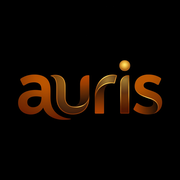
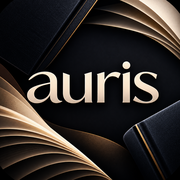
major update auris v5

diff --git a/src/App.jsx b/src/App.jsx
@@ -13,25 +13,28 @@ export default function App() {
   const [edit, setEdit] = useState(null);
   const [setup, setSetup] = useState(!device());
   const [order, setOrder] = useState(null);
-  const [ask, setAsk] = useState(null);
   const [msg, setMsg] = useState('');
   const [naming, setNaming] = useState(null);
   const [inst, setInst] = useState(null);
   useEffect(() => { const h = (e) => { e.preventDefault(); setInst(e); }; addEventListener('beforeinstallprompt', h); return () => removeEventListener('beforeinstallprompt', h); }, []);
 
-  const refresh = async () => setBooks((await getAll()).sort((a, b) => (b.updatedAt || b.addedAt) - (a.updatedAt || a.addedAt)));
+  const refresh = async () => setBooks((await getAll()).sort((a, b) => (b.updatedAt || 0) - (a.updatedAt || 0) || b.addedAt - a.addedAt));
   const flush = async () => {
     for (const b of await getAll()) if (b.dirty) push(toItem(b)).then(async () => putBook({ ...(await getBook(b.id)), dirty: false })).catch(() => {});
   };
   // Titles, authors and covers follow the book to every device; the newest edit wins.
   const syncMeta = async () => {
     try {
-      const { meta } = await pullAll();
+      const { meta, items } = await pullAll();
       let changed = false;
       for (const b of await getAll()) {
         const m = meta[b.id], t = b.metaAt || b.addedAt || 0;
         if (m && m.metaAt > t) { await putBook({ ...b, title: m.title, author: m.author, coverUrl: m.coverUrl, metaAt: m.metaAt }); changed = true; }
         else if (t > (m?.metaAt || 0)) pushMeta({ ...b, metaAt: t }).catch(() => {});
+      }
+      for (const b of await getAll()) {
+        const r = items[b.id];
+        if (r && r.device !== device() && r.updatedAt > (b.updatedAt || 0)) { await putBook({ ...b, part: r.part || 0, position: r.position, finished: r.finished, updatedAt: r.updatedAt }); changed = true; }
       }
       if (changed) refresh();
     } catch {}
@@ -50,19 +53,14 @@ export default function App() {
     await putBook(nb);
     try { await push(toItem(nb), keepalive); await putBook({ ...nb, dirty: false }); } catch {}
   }
-  // Opening a book last played on another device asks whether to jump to that point.
+  // Opening a book last played on another device jumps there automatically (the player starts 10 seconds earlier).
   async function start(b, files) {
     const remote = (await pull().catch(() => ({})))[b.id];
-    if (remote && remote.device !== device() && remote.updatedAt > (b.updatedAt || 0) && remote.updatedAt > (b.seenRemote || 0)) return setAsk({ b, files, remote });
+    if (remote && remote.device !== device() && remote.updatedAt > (b.updatedAt || 0)) {
+      b = { ...b, part: remote.part || 0, position: remote.position, finished: remote.finished, updatedAt: remote.updatedAt };
+      await putBook(b);
+    }
     setCur({ book: b, files });
-  }
-  async function answer(yes) {
-    const { b, files, remote } = ask;
-    setAsk(null);
-    let nb = { ...b, seenRemote: remote.updatedAt };
-    if (yes) nb = { ...nb, part: remote.part || 0, position: remote.position, finished: remote.finished, updatedAt: remote.updatedAt };
-    await putBook(nb);
-    setCur({ book: nb, files });
   }
   async function resolve(b, items) {
     const fps = await Promise.all(items.map((i) => fingerprint(i.file)));
@@ -149,7 +147,7 @@ export default function App() {
         <Player key={cur.book.id} {...cur} onSave={(p, k) => saveProgress(cur.book.id, p, k)} onEdit={() => setEdit(cur.book)} onBack={() => { setCur(null); refresh(); }} />
       ) : (
         <main className="lib">
-          <header><h1><img className="logo" src="/logo.png" alt="AURIS" /></h1><div>{inst && <button className="ghost" onClick={() => { inst.prompt(); setInst(null); }}>Install</button>}<button className="ghost" onClick={() => setSetup(true)}>{device() || 'Device'}</button><button className="primary" onClick={add}>Add audiobook</button></div></header>
+          <header><h1><img className="logo" src="/icon-192.png" alt="AURIS" /></h1><div>{inst && <button className="ghost" onClick={() => { inst.prompt(); setInst(null); }}>Install</button>}<button className="ghost" onClick={() => setSetup(true)}>{device() || 'Device'}</button><button className="primary" onClick={add}>Add audiobook</button></div></header>
           {msg && <p className="note" onClick={() => setMsg('')}>{msg}</p>}
           {!books.length && <p className="empty">Your shelf is empty. Add an audiobook from this device. Select several files to add a book with multiple parts. Files play from where they are stored and are never uploaded.</p>}
           {books.map((b) => <Row key={b.id} b={b} onOpen={() => open(b)} onEdit={() => setEdit(b)} />)}
@@ -157,13 +155,6 @@ export default function App() {
       )}
       {naming && <Naming n={naming} onCancel={() => setNaming(null)} onDone={async (t) => { const n = naming; setNaming(null); try { await begin(await createBook(n.items, n.fps, n.id, n.m, t), n.items); } catch { setMsg('Could not add that audiobook.'); } }} />}
       {order && <Order items={order} onCancel={() => setOrder(null)} onDone={finishAdd} />}
-      {ask && (
-        <div className="modal"><div className="sheet">
-          <h3>Continue from another device?</h3>
-          <p className="by" style={{ margin: 0 }}>"{ask.b.title}" was last played on {ask.remote.device || 'another device'} at {fmt(ask.remote.position)}{ask.b.parts.length > 1 ? ` in part ${(ask.remote.part || 0) + 1}` : ''}. Yes resumes from there, 10 seconds earlier. No keeps this device where it is.</p>
-          <div className="actions"><button className="ghost" onClick={() => answer(false)}>No</button><button className="primary" onClick={() => answer(true)}>Yes</button></div>
-        </div></div>
-      )}
       {edit && <Edit b={edit} onClose={async () => { setEdit(null); await refresh(); }} onRemove={async () => { await removeBook(edit); setEdit(null); setCur(null); refresh(); }} />}
       {setup && <Setup onClose={() => { setSetup(false); syncMeta(); }} />}
     </div>
@@ -192,6 +183,10 @@ function Player({ book, files, onSave, onBack, onEdit }) {
   const cover = useCover(book);
   const [t, setT] = useState(0), [dur, setDur] = useState(0), [playing, setPlaying] = useState(false), [rate, setRate] = useState(1), [badge, setBadge] = useState(''), [part, setPart] = useState(0);
   const tap = useRef({ n: 0, dir: 0, timer: 0 });
+  const [dim, setDim] = useState(false);
+  const enterDim = () => { setDim(true); document.documentElement.requestFullscreen?.().catch(() => {}); };
+  const leaveDim = () => { setDim(false); if (document.fullscreenElement) document.exitFullscreen?.().catch(() => {}); };
+  useEffect(() => { const f = () => !document.fullscreenElement && setDim(false); document.addEventListener('fullscreenchange', f); return () => document.removeEventListener('fullscreenchange', f); }, []);
 
   const load = (i, at = 0, play = false) => {
     const el = a.current;
@@ -264,7 +259,7 @@ function Player({ book, files, onSave, onBack, onEdit }) {
   return (
     <section className="player">
       <audio ref={a} onTimeUpdate={(e) => setT(e.target.currentTime)} onPlay={() => { started.current = true; setPlaying(true); }} onPause={() => { setPlaying(false); save(false); }} onEnded={ended} />
-      <div className="top"><button className="ghost" onClick={onBack}>Library</button><button className="ghost" onClick={onEdit}>Edit</button></div>
+      <div className="top"><button className="ghost" onClick={onBack}>Library</button><span><button className="ghost" onClick={enterDim}>Dim</button><button className="ghost" onClick={onEdit}>Edit</button></span></div>
       <div className="art" style={cover ? { backgroundImage: `url(${cover})` } : null}>{!cover && book.title[0]}{badge && <span className="badge">{badge}</span>}</div>
       <h2>{book.title}</h2><p className="by">{book.author}</p>
       {files.length > 1 && (
@@ -283,6 +278,7 @@ function Player({ book, files, onSave, onBack, onEdit }) {
         <button className="skip" aria-label="Forward 10 seconds" onClick={() => skip(1)}>+10</button>
         <span className="speed" />
       </div>
+      {dim && <div className="dim" onClick={leaveDim}><h2>{book.title}</h2></div>}
     </section>
   );
 }
@@ -360,3 +356,4 @@ function Naming({ n, onCancel, onDone }) {
     </div></div>
   );
 }
+

diff --git a/api/book.js b/api/book.js
@@ -1,0 +1,39 @@
+import crypto from 'node:crypto';
+
+const sha = (s) => crypto.createHash('sha256').update(String(s)).digest();
+const keys = () => Object.entries(process.env).filter(([k, v]) => v && (k === 'SYNC_KEY' || k.endsWith('_SYNC_KEY'))).map(([, v]) => v);
+const authorized = (g) => !!g && keys().some((k) => crypto.timingSafeEqual(sha(g), sha(k)));
+
+// Book search on the server so the Hardcover token never reaches the browser.
+async function hardcover(q) {
+  const t = process.env.HARDCOVER_TOKEN;
+  if (!t) return [];
+  const r = await fetch('https://api.hardcover.app/v1/graphql', {
+    method: 'POST',
+    headers: { 'content-type': 'application/json', authorization: t.startsWith('Bearer ') ? t : `Bearer ${t}` },
+    body: JSON.stringify({ query: 'query($q:String!){search(query:$q,query_type:"Book",per_page:6,page:1){results}}', variables: { q } }),
+  });
+  const hits = (await r.json())?.data?.search?.results?.hits || [];
+  return hits.map((h) => h.document).filter(Boolean).map((d) => ({ title: d.title, author: (d.author_names || [])[0] || '', coverUrl: d.image?.url || '' }));
+}
+async function google(q) {
+  const r = await fetch(`https://www.googleapis.com/books/v1/volumes?maxResults=6&printType=books&q=${encodeURIComponent(q)}`);
+  return ((await r.json()).items || []).map((i) => {
+    const v = i.volumeInfo || {}, l = v.imageLinks?.thumbnail || v.imageLinks?.smallThumbnail || '';
+    return { title: v.title, author: (v.authors || [])[0] || '', coverUrl: l.replace('http://', 'https://').replace('&edge=curl', '').replace(/zoom=\d/, 'zoom=0') };
+  });
+}
+async function openlibrary(q) {
+  const r = await fetch(`https://openlibrary.org/search.json?limit=6&fields=title,author_name,cover_i&q=${encodeURIComponent(q)}`);
+  return ((await r.json()).docs || []).map((d) => ({ title: d.title, author: (d.author_name || [])[0] || '', coverUrl: d.cover_i ? `https://covers.openlibrary.org/b/id/${d.cover_i}-L.jpg` : '' }));
+}
+
+export default async function handler(req, res) {
+  if (!authorized(req.headers['x-sync-key'])) return res.status(401).json({ error: 'unauthorized' });
+  const q = String(req.query.q || '').slice(0, 200).trim();
+  if (!q) return res.status(400).json({ error: 'missing q' });
+  const lists = await Promise.all([hardcover, google, openlibrary].map((f) => f(q).catch(() => [])));
+  const seen = new Set();
+  const results = lists.flat().filter((x) => x.title && !seen.has((x.title + x.author).toLowerCase()) && seen.add((x.title + x.author).toLowerCase())).slice(0, 10);
+  return res.status(200).json({ results });
+}

diff --git a/src/lib.js b/src/lib.js
@@ -38,6 +38,12 @@ export async function readMeta(file) {
   } catch { return { title: '', author: '', cover: null }; }
 }
 export async function searchBooks(q) {
+  try {
+    if (key()) {
+      const r = await fetch('/api/book?q=' + encodeURIComponent(q), { headers: hdr() });
+      if (r.ok) { const j = await r.json(); if (j.results?.length) return j.results; }
+    }
+  } catch {}
   const r = await fetch(`https://openlibrary.org/search.json?limit=6&fields=title,author_name,cover_i&q=${encodeURIComponent(q)}`);
   const j = await r.json();
   return (j.docs || []).map((d) => ({ title: d.title, author: (d.author_name || [])[0] || '', coverUrl: d.cover_i ? `https://covers.openlibrary.org/b/id/${d.cover_i}-L.jpg` : '' }));

diff --git a/src/styles.css b/src/styles.css
@@ -40,3 +40,7 @@ input:not([type=range]){background:var(--bg);border:1px solid var(--s2);color:va
 .parts button:disabled{opacity:.3;cursor:default}
 .partnav{display:flex;align-items:center;gap:8px;color:var(--mu);font-size:14px;margin-bottom:12px}
 .logo{height:30px;display:block}h1{line-height:0}
+
+.top span{display:flex}.logo{height:36px;width:36px;border-radius:9px;display:block}
+.dim{position:fixed;inset:0;z-index:30;background:#000;display:grid;place-items:center;padding:24px;cursor:pointer}
+.dim h2{font-size:clamp(30px,8vw,72px);text-align:center;line-height:1.15;color:var(--tx);opacity:.9}

diff --git a/api/progress.js b/api/progress.js
@@ -3,7 +3,7 @@ import crypto from 'node:crypto';
 
 const HASH = 'auris:progress';
 const META = 'auris:meta';
-const cover = (u) => (/^https:\/\/covers\.openlibrary\.org\//.test(u) ? String(u).slice(0, 300) : '');
+const cover = (u) => (/^https:\/\/(covers\.openlibrary\.org|([a-z0-9-]+\.)*hardcover\.app|books\.google\.com|books\.googleusercontent\.com)\//.test(u) ? String(u).slice(0, 400) : '');
 let client;
 async function db() {
   if (!client) {
